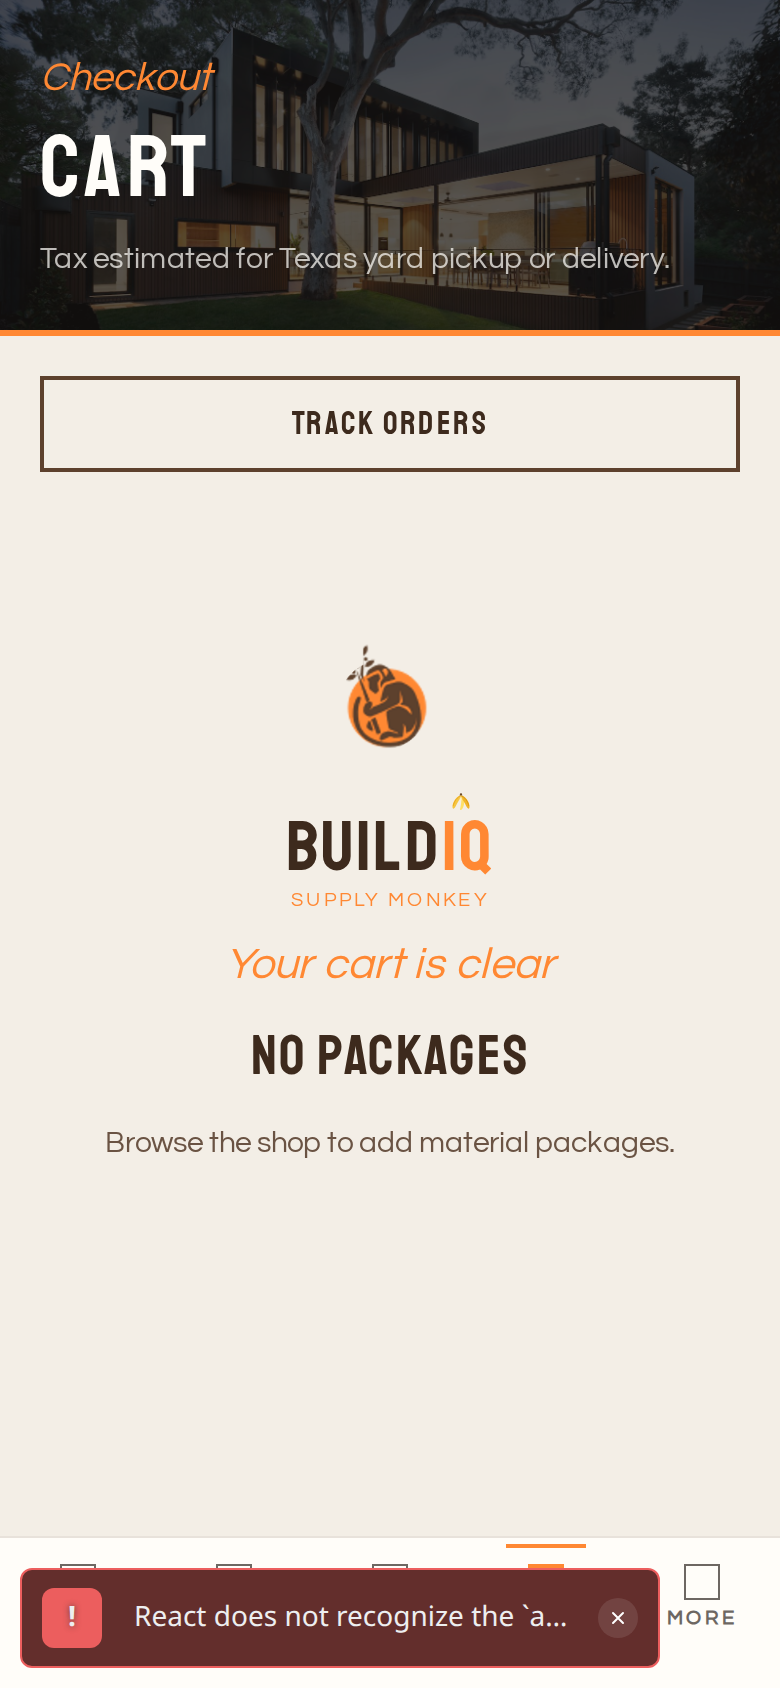
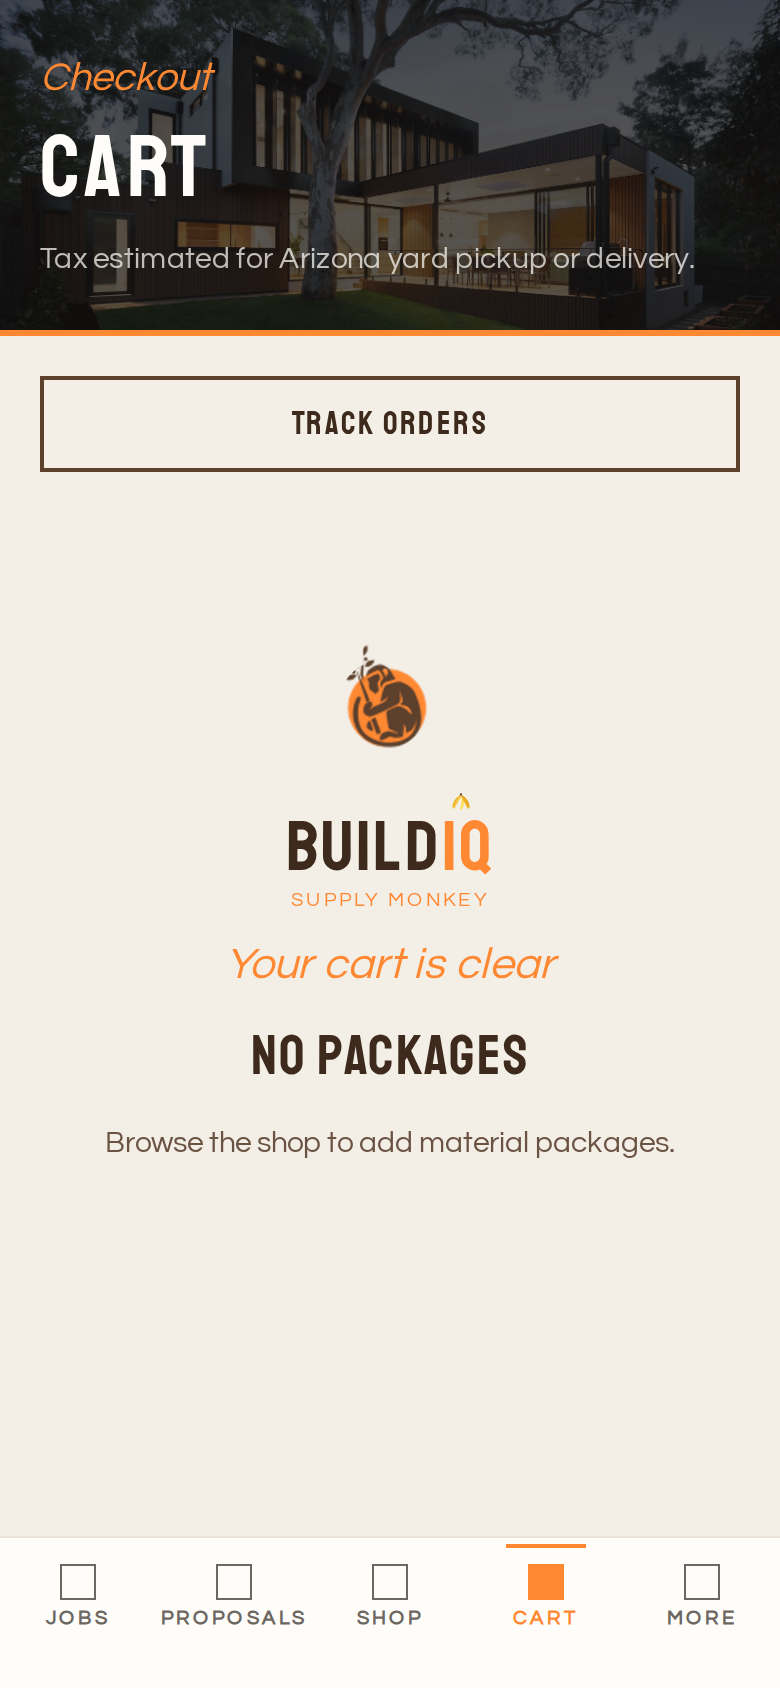
Fix cart empty-state React error from wordmark props.
Move pointerEvents into style (RN-web), correct auth Stack
screen name, and set cart tax copy to Arizona.

diff --git a/apps/mobile/app/(tabs)/cart.tsx b/apps/mobile/app/(tabs)/cart.tsx
@@ -55,7 +55,7 @@ export default function CartScreen() {
           tone="cart"
           eyebrow="Checkout"
           title="Cart"
-          supporting="Tax estimated for Texas yard pickup or delivery."
+          supporting="Tax estimated for Arizona yard pickup or delivery."
         />
 
         <View style={{ paddingHorizontal: gutter, paddingTop: theme.space[5], flex: 1, gap: theme.space[4] }}>

diff --git a/apps/mobile/src/ui/HeroBand.tsx b/apps/mobile/src/ui/HeroBand.tsx
@@ -71,7 +71,6 @@ export function HeroBand({
         />
       ) : null}
       <View
-        pointerEvents="none"
         style={{
           position: "absolute",
           top: 0,
@@ -79,6 +78,7 @@ export function HeroBand({
           bottom: 0,
           left: 0,
           backgroundColor: "rgba(22,20,18,0.72)",
+          pointerEvents: "none",
         }}
       />
       <View

diff --git a/apps/mobile/app/_layout.tsx b/apps/mobile/app/_layout.tsx
@@ -33,7 +33,7 @@ function RootNavigator() {
         }}
       >
         <Stack.Screen name="index" />
-        <Stack.Screen name="(auth)/login" options={{ animation: "fade" }} />
+        <Stack.Screen name="(auth)" options={{ animation: "fade" }} />
         <Stack.Screen name="(tabs)" options={{ animation: "fade" }} />
       </Stack>
     </>

diff --git a/apps/mobile/src/ui/BuildIqWordmark.tsx b/apps/mobile/src/ui/BuildIqWordmark.tsx
@@ -101,8 +101,8 @@ export function BuildIqWordmark({
             zIndex: 2,
             width: bananaSize,
             alignItems: "center",
+            pointerEvents: "none",
           }}
-          pointerEvents="none"
         >
           <BananaPeel size={bananaSize} />
         </View>
